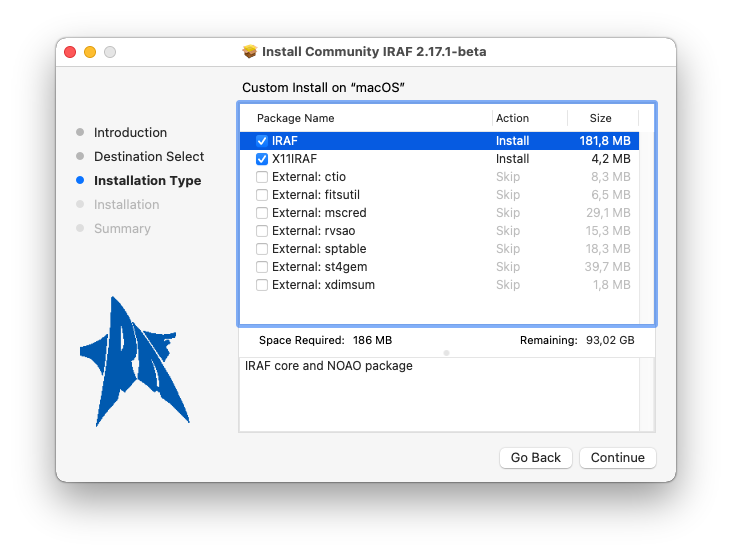
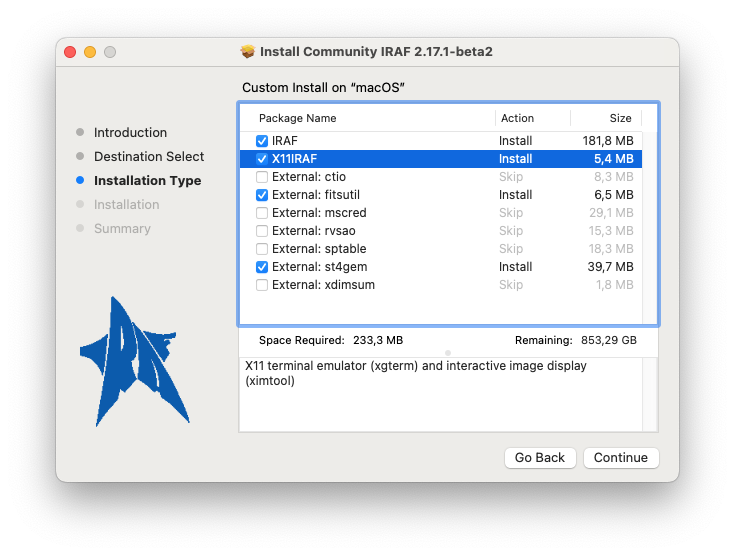
Update install for Mac installer beta2

diff --git a/install.md b/install.md
@@ -41,14 +41,14 @@ Linux versions.
 For macOS, a beta release of the installer is available. Please
 download the installer (~100 MB) for your system:
 
- * [Apple Silicon (macOS 11 or newer)](https://github.com/iraf-community/iraf-mac-build/releases/download/v2.17.1-beta/iraf-2.17.1-beta-arm64.pkg)
+ * [Apple Silicon (macOS 11 or newer)](https://github.com/iraf-community/iraf-mac-build/releases/download/v2.17.1-beta2/iraf-2.17.1-beta2-arm64.pkg)
 
- * [Intel 64 bit (OS X 10.10 or newer)](https://github.com/iraf-community/iraf-mac-build/releases/download/v2.17.1-beta/iraf-2.17.1-beta-x86_64.pkg)
+ * [Intel 64 bit (OS X 10.10 or newer)](https://github.com/iraf-community/iraf-mac-build/releases/download/v2.17.1-beta2/iraf-2.17.1-beta2-x86_64.pkg)
 
- * [Intel 32 bit (Mac OS X 10.6 or newer)](https://github.com/iraf-community/iraf-mac-build/releases/download/v2.17.1-beta/iraf-2.17.1-beta-i386.pkg)
+ * [Intel 32 bit (Mac OS X 10.6 – 10.14)](https://github.com/iraf-community/iraf-mac-build/releases/download/v2.17.1-beta2/iraf-2.17.1-beta2-i386.pkg)
 
-Keep in mind that the installer is a ***beta*** version and contact us in case of
-installation problems.
+Keep in mind that the installer is a ***beta*** version and contact us
+in case of installation problems.
 
 After downloading, open the installer package by right-clicking on the
 icon and selecting **Open**. As the software is not signed with an
@@ -71,18 +71,17 @@ IRAF will be installed under `/usr/local/lib/iraf/` and the installer
 will ask you for the root password of the machine. At the end you will
 see a screen like this:
 
-![summary window](macinstall/macinstall-04.png){: width="70%"}
+![summary window](macinstall/macinstall-03.png){: width="70%"}
 
-**Note**
-> The text on the final screen is misleading as IRAF 2.17.1 does not
-> contain the **irafcl** command. IRAF shall be started using the usual
-> commands **xgterm** and **ecl**.
+If **X11IRAF** was selected, two new applications, **xgterm** and
+**ximtool** are installed:
 
-Additionally, you will need an X server
-([XQuartz](https://www.xquartz.org/)) to display plots. As image
-display, most people prefer [SAOImageDS9](https://ds9.si.edu/) which should be
-installed separately. For development, the XCode command line tools
-are needed.
+![X11IRAF applications](macinstall/x11irafapps.png){: width="50%"}
+
+For these applications, you will need an X server
+([XQuartz](https://www.xquartz.org/)). As an alternative image
+display, most people install [SAOImageDS9](https://ds9.si.edu/). For
+development, the XCode command line tools are needed.
 
 # Installation from source
 
